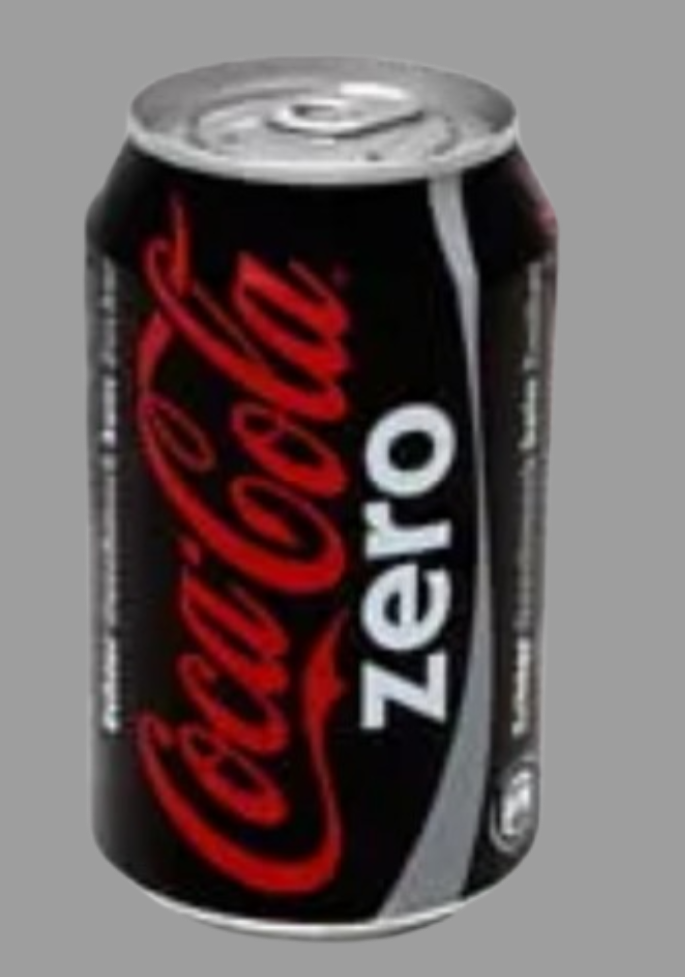
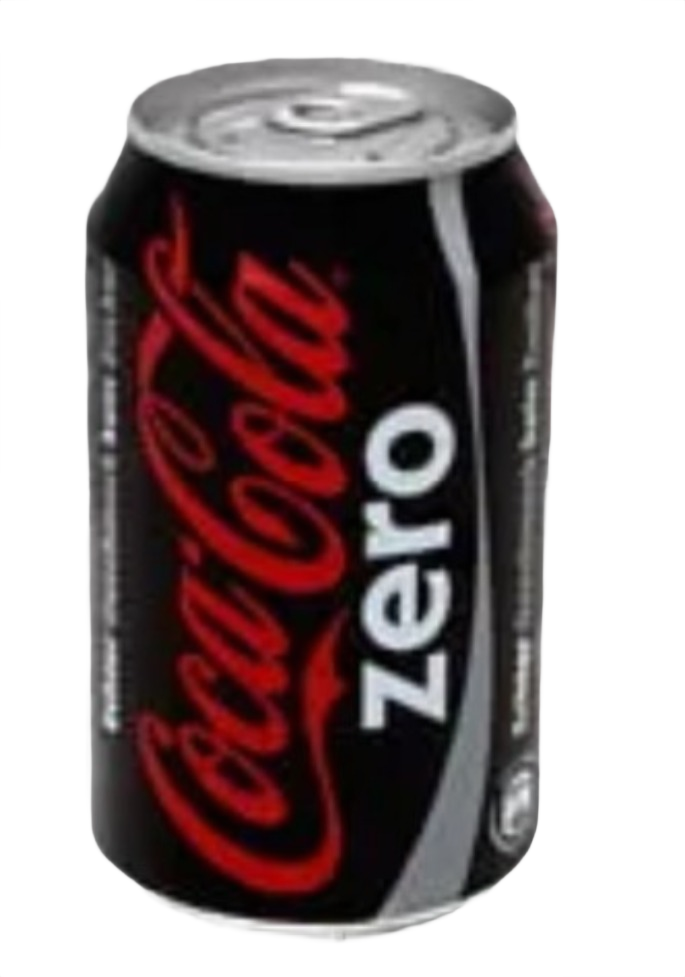
added holiday promos and removed bg

diff --git a/src/data/menuData.ts b/src/data/menuData.ts
@@ -7,7 +7,7 @@ export const menuData: MenuItem[] = [
     name: 'Tandoori Chicken Pizza',
     description: 'Marinated chicken, red onions, Bell peppers, tomatoes, Jalapeños, Fresh green onions, and Cilantro on Homemade sauce',
     category: "Manager's Picks",
-    image: '/ManagersPizza_TandooriChicken.jpg',
+    image: '/ManagersPizza_TandooriChicken.png',
     price: 18.99,
     sizes: [
       { name: 'Small (10")', price: 18.99 },
@@ -22,7 +22,7 @@ export const menuData: MenuItem[] = [
     name: 'Tandoori Paneer Pizza',
     description: 'Marinated paneer, red onions, tomatoes, Bell peppers, jalapeños, fresh green onions, and cilantro on homemade sauce.',
     category: "Manager's Picks",
-    image: '/ManagersPizza_TandooriPaneer.jpg',
+    image: '/ManagersPizza_TandooriPaneer.png',
     price: 18.99,
     sizes: [
       { name: 'Small (10")', price: 18.99 },
@@ -38,7 +38,7 @@ export const menuData: MenuItem[] = [
     name: 'Butter Chicken Pizza',
     description: 'Marinated chicken, Mushrooms, red onions, diced tomatoes, fresh green onions, and cilantro with homemade sauce.',
     category: "Manager's Picks",
-    image: '/ButterChickenPizza.jpg',
+    image: '/ButterChickenPizza.png',
     price: 18.99,
     sizes: [
       { name: 'Small (10")', price: 18.99 },
@@ -53,7 +53,7 @@ export const menuData: MenuItem[] = [
     name: 'Chicken Tikka Masala Pizza',
     description: 'Marinated chicken, red onions, bell peppers, Ginger, Garlic, tomatoes, fresh green onions, and Cilantro on homemade sauce.',
     category: "Manager's Picks",
-    image: '/Manager_sPizza_ChickenTikkaMasalaPizza.jpg',
+    image: '/Manager_sPizza_ChickenTikkaMasalaPizza.png',
     price: 18.99,
     sizes: [
       { name: 'Small (10")', price: 18.99 },
@@ -130,7 +130,7 @@ export const menuData: MenuItem[] = [
     name: 'Curry Veggie Pizza',
     description: 'Mushrooms, bell peppers, red onions, Olives, tomatoes, fresh green onions, and Cilantro on homemade sauce. ',
     category: "Manager's Picks",
-    image: '/ManagersPizza_CurryVeggie.jpg',
+    image: '/ManagersPizza_CurryVeggie.png',
     price: 18.99,
     sizes: [
       { name: 'Small (10")', price: 18.99 },
@@ -146,7 +146,7 @@ export const menuData: MenuItem[] = [
     name: 'Chili Paneer Pizza',
     description: 'Marinated paneer, red onions, bell pepper, tomatoes, green chili, jalapeños, fresh green onions, and cilantro on homemade sauce. ',
     category: "Manager's Picks",
-    image: '/ManagersPizza_ChilliPaneer.jpg',
+    image: '/ManagersPizza_ChilliPaneer.png',
     price: 18.99,
     sizes: [
       { name: 'Small (10")', price: 18.99 },
@@ -162,7 +162,7 @@ export const menuData: MenuItem[] = [
     name: 'Masala Supreme Feast',
     description: 'Tandoori Chicken, Chicken Tikka, Butter Chicken, BBQ Chicken, Onions, and Bell Peppers on Red Sauce. ',
     category: "Manager's Picks",
-    image: '/Manager_sPizza_MasalaSupremeFeastPizza.jpg',
+    image: '/Manager_sPizza_MasalaSupremeFeastPizza.png',
     price: 18.99,
     sizes: [
       { name: 'Small (10")', price: 18.99 },
@@ -174,15 +174,15 @@ export const menuData: MenuItem[] = [
   },
 
   // 🍕 Signature Pizzas
-  { id: 'veggie-supreme', name: 'Veggie Supreme', description: 'Mushrooms, black olives, bell peppers, red onions, and fresh sliced tomatoes on red sauce. ', category: 'Signature Pizzas', price: 18.99, image: '/Manager_sPizza_VeggieSupremePizza.jpg' },
+  { id: 'veggie-supreme', name: 'Veggie Supreme', description: 'Mushrooms, black olives, bell peppers, red onions, and fresh sliced tomatoes on red sauce. ', category: 'Signature Pizzas', price: 18.99, image: '/Manager_sPizza_VeggieSupremePizza.png' },
   { id: 'supreme-feast', name: 'Supreme Feast', description: 'Salami, pepperoni, sausage, ground beef, mushrooms, black olives, bell pepper, and red onions on red sauce. ', category: 'Signature Pizzas', price: 18.99, image: 'https://images.pexels.com/photos/315755/pexels-photo-315755.jpeg?auto=compress&cs=tinysrgb&w=800' },
-  { id: 'white-delight', name: 'White Delight', description: 'Spinach, Mushrooms, Tomatoes , red onions, Artichoke hearts and fresh green onions on creamy garlic sauce. ', category: 'Signature Pizzas', price: 18.99, image: '/Manager_sPizza_WhiteDelightPizza.jpg' },
-  { id: 'garlic-ranch-feast', name: 'Garlic Ranch Feast', description: 'Pepperoni, sausage, mushrooms, tomatoes, black olives, and fresh green onions on creamy garlic sauce. ', category: 'Signature Pizzas', price: 18.99, image: '/Manager_sPizza_GarlicRanchFeastPizza.jpg' },
+  { id: 'white-delight', name: 'White Delight', description: 'Spinach, Mushrooms, Tomatoes , red onions, Artichoke hearts and fresh green onions on creamy garlic sauce. ', category: 'Signature Pizzas', price: 18.99, image: '/Manager_sPizza_WhiteDelightPizza.png' },
+  { id: 'garlic-ranch-feast', name: 'Garlic Ranch Feast', description: 'Pepperoni, sausage, mushrooms, tomatoes, black olives, and fresh green onions on creamy garlic sauce. ', category: 'Signature Pizzas', price: 18.99, image: '/Manager_sPizza_GarlicRanchFeastPizza.png' },
   {
     id: 'custom-pizza',
     name: 'Build Your Own Pizza',
     description: 'Choose your sauce, crust, toppings, and cheese to create your perfect pizza!',
-    image: '/MP-redlogo.jpg',
+    image: '/mpbgimg.jpeg',
     category: 'Build Your Own Pizza',
     sizes: [
       { name: 'Small (10")', price: 18.99 },
@@ -199,17 +199,17 @@ export const menuData: MenuItem[] = [
     price: 18.99,
     dietary: [],
   },
-  { id: 'the-hamazon', name: 'The Hamazon', description: 'Ham, pineapple, tomatoes, red onions, bacon, and fresh green onions on our sweet & Spicy Sauce .', category: 'Signature Pizzas', price: 18.99, image: '/Manager_sPizza_TheHamazonPizza.jpg' },
-  { id: 'ham-it-up', name: 'Ham It Up', description: 'Ham and Pineapple on Red Sauce.', category: 'Signature Pizzas', price: 18.99, image: '/Manager_sPizza_HamItUpPizza.jpg' },
-  { id: 'meaty-union', name: 'Meaty Union', description: 'Ham, Salami, Pepperoni, sausage, and ground beef on Red Sauce. ', category: 'Signature Pizzas', price: 18.99, image: '/Manager_sPizza_MeatyUnionPizza.jpg' },
-  { id: 'pizza-margherita', name: 'Pizza Margherita', description: 'Baby tomatoes and fresh basil leaves on Red Sauce. ', category: 'Signature Pizzas', dietary: ['V'], price: 18.99, image: '/Manager_sPizza_MargheritaPizza.jpg' },
-  { id: 'garlic-rooster', name: 'Garlic Rooster', description: 'Grilled Chicken, Mushrooms, Tomatoes, Red onions and fresh green onions on creamy garlic sauce.', category: 'Signature Pizzas', price: 18.99, image: '/Manager_sPizza_GarlicRoosterPizza.jpg' },
-  { id: 'tangy-bbq', name: 'Tangy BBQ', description: 'BBQ chicken, bacon, and pineapple on tangy BBQ sauce.', category: 'Signature Pizzas', price: 18.99, image: '/Manager_sPizza_TangyBBQPizza.jpg' },
-  { id: 'mediterranean', name: 'Mediterranean', description: 'Chicken, artichoke hearts, olives, and sundried tomatoes, and feta cheese on pesto sauce. ', category: 'Signature Pizzas', dietary: ['V'], price: 18.99, image: '/Manager_sPizza_MediterraneanPizza.jpg' },
+  { id: 'the-hamazon', name: 'The Hamazon', description: 'Ham, pineapple, tomatoes, red onions, bacon, and fresh green onions on our sweet & Spicy Sauce .', category: 'Signature Pizzas', price: 18.99, image: '/Manager_sPizza_TheHamazonPizza.png' },
+  { id: 'ham-it-up', name: 'Ham It Up', description: 'Ham and Pineapple on Red Sauce.', category: 'Signature Pizzas', price: 18.99, image: '/Manager_sPizza_HamItUpPizza.png' },
+  { id: 'meaty-union', name: 'Meaty Union', description: 'Ham, Salami, Pepperoni, sausage, and ground beef on Red Sauce. ', category: 'Signature Pizzas', price: 18.99, image: '/Manager_sPizza_MeatyUnionPizza.png' },
+  { id: 'pizza-margherita', name: 'Pizza Margherita', description: 'Baby tomatoes and fresh basil leaves on Red Sauce. ', category: 'Signature Pizzas', dietary: ['V'], price: 18.99, image: '/Manager_sPizza_MargheritaPizza.png' },
+  { id: 'garlic-rooster', name: 'Garlic Rooster', description: 'Grilled Chicken, Mushrooms, Tomatoes, Red onions and fresh green onions on creamy garlic sauce.', category: 'Signature Pizzas', price: 18.99, image: '/Manager_sPizza_GarlicRoosterPizza.png' },
+  { id: 'tangy-bbq', name: 'Tangy BBQ', description: 'BBQ chicken, bacon, and pineapple on tangy BBQ sauce.', category: 'Signature Pizzas', price: 18.99, image: '/Manager_sPizza_TangyBBQPizza.png' },
+  { id: 'mediterranean', name: 'Mediterranean', description: 'Chicken, artichoke hearts, olives, and sundried tomatoes, and feta cheese on pesto sauce. ', category: 'Signature Pizzas', dietary: ['V'], price: 18.99, image: '/Manager_sPizza_MediterraneanPizza.png' },
 
   // 🍕 Classic Pizzas
-  { id: 'classic-pepperoni', name: 'Classic Pepperoni', description: 'Our hand-tossed crust topped with rich tomato sauce, whole milk-mozzarella and crispy pepperoni. ', category: 'Classic Pizzas', price: 15.99, image: '/Manager_sPizza_PepperoniPizza.jpg' },
-  { id: 'classic-cheese', name: 'Classic Cheese', description: 'Our hand-tossed crust topped with rich tomato sauce and whole milk-mozzarella.', category: 'Classic Pizzas', dietary: ['V'], price: 13.99, image: '/Manager_sPizza_CheesePizza.jpg' },
+  { id: 'classic-pepperoni', name: 'Classic Pepperoni', description: 'Our hand-tossed crust topped with rich tomato sauce, whole milk-mozzarella and crispy pepperoni. ', category: 'Classic Pizzas', price: 15.99, image: '/Manager_sPizza_PepperoniPizza.png' },
+  { id: 'classic-cheese', name: 'Classic Cheese', description: 'Our hand-tossed crust topped with rich tomato sauce and whole milk-mozzarella.', category: 'Classic Pizzas', dietary: ['V'], price: 13.99, image: '/Manager_sPizza_CheesePizza.png' },
 
   // Build Your Own Pizza (removed duplicate)
 
@@ -221,24 +221,24 @@ export const menuData: MenuItem[] = [
 
   // 🍟 Starters & Sides
   { id: 'garlic-bread-cheese', name: 'Garlic Bread with Cheese', description: 'Toasted bread topped with garlic butter and melted mozzarella cheese.', category: 'Starters & Sides', dietary: ['V'], price: 7.99, image: 'https://images.pexels.com/photos/4109111/pexels-photo-4109111.jpeg?auto=compress&cs=tinysrgb&w=800' },
-  { id: 'garlic-sticks', name: 'Garlic Sticks with Cheese', description: 'Soft breadsticks brushed with garlic butter and topped with mozzarella cheese.', category: 'Starters & Sides', dietary: ['V'], price: 6.99, image: '/ManagersPizza_GarlicSticksWithCheese.jpg' },
+  { id: 'garlic-sticks', name: 'Garlic Sticks with Cheese', description: 'Soft breadsticks brushed with garlic butter and topped with mozzarella cheese.', category: 'Starters & Sides', dietary: ['V'], price: 6.99, image: '/ManagersPizza_GarlicSticksWithCheese.png' },
   { id: 'pesto-sticks', name: 'Pesto Sticks', description: 'Soft breadsticks topped with aromatic pesto sauce and mozzarella cheese.', category: 'Starters & Sides', dietary: ['V'], price: 7.99, image: 'https://images.pexels.com/photos/4109111/pexels-photo-4109111.jpeg?auto=compress&cs=tinysrgb&w=800' },
-  { id: 'masala-breadsticks', name: 'Masala Breadsticks', description: 'Crispy breadsticks seasoned with a flavorful blend of Indian spices.', category: 'Starters & Sides', dietary: ['V'], price: 7.99, image: '/ManagersPizza_MasalaBreadsticks.jpg' },
-  { id: 'mozzarella-sticks', name: 'Mozzarella Sticks (8 pcs)', description: 'Crispy golden sticks filled with melted mozzarella cheese with the choice of dipping ranch or marinara.', category: 'Starters & Sides', dietary: ['V'], price: 9.99, image: '/Manager_sPizza_MozzerallaSticks.jpg' },
-  { id: 'jalapeno-poppers', name: 'Jalapeño Poppers (8 pcs)', description: 'Crispy fried jalapeños stuffed with creamy cheese with the choice of dipping ranch or blue cheese.', category: 'Starters & Sides', dietary: ['V'], price: 8.99, image: '/ManagersPizza_JalapenoPoppers.jpg' },
-  { id: 'cauliflower-crisps', name: 'Cauliflower Crisps', description: 'Light and crunchy bites made from seasoned cauliflower.A tasty wholesome snack.', category: 'Starters & Sides', dietary: ['V'], price: 8.99, image: '/ManagersPizza_CauliflowerBites.jpg' },
-  { id: 'vegan-nuggets', name: 'Vegan Nuggets', description: 'Crispy,golden nuggets made from plant-based ingredients. Totally meat free.', category: 'Starters & Sides', dietary: ['VE'], price: 8.99, image: '/ManagersPizza_VeganNuggets.jpg' },
+  { id: 'masala-breadsticks', name: 'Masala Breadsticks', description: 'Crispy breadsticks seasoned with a flavorful blend of Indian spices.', category: 'Starters & Sides', dietary: ['V'], price: 7.99, image: '/ManagersPizza_MasalaBreadsticks.png' },
+  { id: 'mozzarella-sticks', name: 'Mozzarella Sticks (8 pcs)', description: 'Crispy golden sticks filled with melted mozzarella cheese with the choice of dipping ranch or marinara.', category: 'Starters & Sides', dietary: ['V'], price: 9.99, image: '/Manager_sPizza_MozzerallaSticks.png' },
+  { id: 'jalapeno-poppers', name: 'Jalapeño Poppers (8 pcs)', description: 'Crispy fried jalapeños stuffed with creamy cheese with the choice of dipping ranch or blue cheese.', category: 'Starters & Sides', dietary: ['V'], price: 8.99, image: '/ManagersPizza_JalapenoPoppers.png' },
+  { id: 'cauliflower-crisps', name: 'Cauliflower Crisps', description: 'Light and crunchy bites made from seasoned cauliflower.A tasty wholesome snack.', category: 'Starters & Sides', dietary: ['V'], price: 8.99, image: '/ManagersPizza_CauliflowerBites.png' },
+  { id: 'vegan-nuggets', name: 'Vegan Nuggets', description: 'Crispy,golden nuggets made from plant-based ingredients. Totally meat free.', category: 'Starters & Sides', dietary: ['VE'], price: 8.99, image: '/ManagersPizza_VeganNuggets.png' },
   { id: 'fries-regular', name: 'Fries (Regular)', description: 'Classic golden fries, lightly salted and perfect for any meal .', category: 'Starters & Sides', dietary: ['V'], price: 5.99, image: 'https://images.pexels.com/photos/1893556/pexels-photo-1893556.jpeg?auto=compress&cs=tinysrgb&w=800' },
   { id: 'fries-garlic', name: 'Fries (Garlic)', description: 'Crispy fries tossed in garlic butter.', category: 'Starters & Sides', dietary: ['V'], price: 6.99, image: 'https://images.pexels.com/photos/1893556/pexels-photo-1893556.jpeg?auto=compress&cs=tinysrgb&w=800' },
   { id: 'fries-bacon', name: 'Fries (Bacon-Loaded)', description: 'Golden fries topped with crispy bacon bits, fresh green onions and lots of cheese on the top.', category: 'Starters & Sides', price: 8.99, image: 'https://images.pexels.com/photos/1893556/pexels-photo-1893556.jpeg?auto=compress&cs=tinysrgb&w=800' },
   { id: 'fries-truffle', name: 'Fries (Truffle Parmesan)', description: 'Crispy fries tossed in truffle oil and sprinkled with parmesan cheese.', category: 'Starters & Sides', price: 8.99, image: 'https://images.pexels.com/photos/1893556/pexels-photo-1893556.jpeg?auto=compress&cs=tinysrgb&w=800' },
-  { id: 'cheese-knots', name: 'Cheese Knots', description: 'Rich and buttery rolls made with white garlic sauce, whole milk mozzarella, and minced garlic. Served with your favorite dipping sauce.', category: 'Starters & Sides', dietary: ['V'], price: 7.99, image: '/ManagersPizza_CheeseKnots.jpg' },
-  { id: 'cheese-knots-jalapeno', name: 'Cheese Knots (Jalapeño)', description: 'Rich and buttery rolls made with white garlic sauce, whole milk mozzarella, and diced pepperoni. Served with your favorite dipping sauce.', category: 'Starters & Sides', dietary: ['V'], price: 7.99, image: '/ManagersPizza_JalapenosCheeseKnots.jpg' },
-  { id: 'cheese-knots-bacon', name: 'Cheese Knots (Bacon-Loaded)', description: 'Rich and buttery rolls made with white garlic sauce, whole milk mozzarella, and smoked bacon. Served with your favorite dipping sauce. ', category: 'Starters & Sides', price: 8.99, image: '/ManagersPizza_BaconCheeseKnots.jpg' },
+  { id: 'cheese-knots', name: 'Cheese Knots', description: 'Rich and buttery rolls made with white garlic sauce, whole milk mozzarella, and minced garlic. Served with your favorite dipping sauce.', category: 'Starters & Sides', dietary: ['V'], price: 7.99, image: '/ManagersPizza_CheeseKnots.png' },
+  { id: 'cheese-knots-jalapeno', name: 'Cheese Knots (Jalapeño)', description: 'Rich and buttery rolls made with white garlic sauce, whole milk mozzarella, and diced pepperoni. Served with your favorite dipping sauce.', category: 'Starters & Sides', dietary: ['V'], price: 7.99, image: '/ManagersPizza_JalapenosCheeseKnots.png' },
+  { id: 'cheese-knots-bacon', name: 'Cheese Knots (Bacon-Loaded)', description: 'Rich and buttery rolls made with white garlic sauce, whole milk mozzarella, and smoked bacon. Served with your favorite dipping sauce. ', category: 'Starters & Sides', price: 8.99, image: '/ManagersPizza_BaconCheeseKnots.png' },
 
   // 🧀 Mac n’ Cheese
-  { id: 'mac-classic', name: 'Mac n’ Cheese (Classic)', description: 'Creamy, cheesy, and comforting—our classic mac and cheese is made with tender elbow pasta smothered in a rich blend of melted cheeses. A timeless favorite!', price: 8.99, category: 'Mac n’ Cheese', dietary: ['V'], image: 'macncheese.jpg' },
-  { id: 'mac-buffalo-chicken', name: 'Mac n’ Cheese (Buffalo Chicken)', description: 'Our creamy mac and cheese gets a bold twist! Topped with spicy buffalo chicken, drizzled with ranch, and finished with a hint of heat. Comfort food with a kick.', price: 10.99, category: 'Mac n’ Cheese', image: '/ManagersPizza_BuffaloMacnCheese.jpg' },
+  { id: 'mac-classic', name: 'Mac n’ Cheese (Classic)', description: 'Creamy, cheesy, and comforting—our classic mac and cheese is made with tender elbow pasta smothered in a rich blend of melted cheeses. A timeless favorite!', price: 8.99, category: 'Mac n’ Cheese', dietary: ['V'], image: 'macncheese.png' },
+  { id: 'mac-buffalo-chicken', name: 'Mac n’ Cheese (Buffalo Chicken)', description: 'Our creamy mac and cheese gets a bold twist! Topped with spicy buffalo chicken, drizzled with ranch, and finished with a hint of heat. Comfort food with a kick.', price: 10.99, category: 'Mac n’ Cheese', image: '/ManagersPizza_BuffaloMacnCheese.png' },
 
   // 🥗 Salads
   { id: 'salad-garden', name: 'Garden Salad', description: 'Fresh iceberg lettuce, cucumbers, olives, cherry tomatoes, carrots, and mozzarella cheese with your choice of dressing. ', price: 8.99, category: 'Salads', dietary: ['V'], image: 'https://images.pexels.com/photos/2097090/pexels-photo-2097090.jpeg?auto=compress&cs=tinysrgb&w=800' },
@@ -250,30 +250,29 @@ export const menuData: MenuItem[] = [
 
   // 🥪 Subs & Sandwiches
   { id: 'sub-spicy-chicken', name: 'Spicy Chicken Sub', description: '- A juicy,spicy crispy chicken breast served on a fresh sandwich roll with lettuce, onions,tomato,pickles and special sauce.', category: 'Subs & Sandwiches', price: 11.99, image: 'https://images.pexels.com/photos/1633525/pexels-photo-1633525.jpeg?auto=compress&cs=tinysrgb&w=800' },
-  { id: 'sub-buffalo-chicken', name: 'Buffalo Chicken Sub', description: 'Sandwich-A juicy, crispy buffalo chicken breast served on a fresh sandwich roll with lettuce, onions, tomato,pickles and special sauce.', category: 'Subs & Sandwiches', price: 11.99, image: '/ManagersPizza_BuffaloChickenSandwich.jpg' },
+  { id: 'sub-buffalo-chicken', name: 'Buffalo Chicken Sub', description: 'Sandwich-A juicy, crispy buffalo chicken breast served on a fresh sandwich roll with lettuce, onions, tomato,pickles and special sauce.', category: 'Subs & Sandwiches', price: 11.99, image: '/ManagersPizza_BuffaloChickenSandwich.png' },
   { id: 'sub-crispy-chicken', name: 'Crispy Chicken Sub', description: 'A juicy, crispy chicken breast served on a fresh sandwich roll with lettuce, onions, tomato, pickles and special sauce.', category: 'Subs & Sandwiches', price: 11.99, image: 'https://images.pexels.com/photos/1633525/pexels-photo-1633525.jpeg?auto=compress&cs=tinysrgb&w=800' },
-  { id: 'sub-bbq-chicken', name: 'BBQ Chicken Sub', description: 'A juicy, grilled BBQ chicken served on a fresh sandwich roll with lettuce, onion, tomato, pickles and special sauce. ', category: 'Subs & Sandwiches', price: 11.99, image: '/BBQChickenSandwich.jpg' },
+  { id: 'sub-bbq-chicken', name: 'BBQ Chicken Sub', description: 'A juicy, grilled BBQ chicken served on a fresh sandwich roll with lettuce, onion, tomato, pickles and special sauce. ', category: 'Subs & Sandwiches', price: 11.99, image: '/BBQChickenSandwich.png' },
   { id: 'sub-chicken-parmesan', name: 'Chicken Parmesan Sub', description: 'A crispy fried chicken breast topped with marinara sauce and melted mozzarella served on a fresh sandwich roll.', category: 'Subs & Sandwiches', price: 12.99, image: 'https://images.pexels.com/photos/1633525/pexels-photo-1633525.jpeg?auto=compress&cs=tinysrgb&w=800' },
   { id: 'sub-teriyaki-chicken', name: 'Teriyaki Chicken Sub', description: 'A juicy grilled teriyaki chicken served on a fresh sandwich roll with lettuce, onion, tomatoes and pickles.', category: 'Subs & Sandwiches', price: 11.99, image: 'https://images.pexels.com/photos/1633525/pexels-photo-1633525.jpeg?auto=compress&cs=tinysrgb&w=800' },
-  { id: 'sub-tandoori-chicken', name: 'Tandoori Paneer/Chicken Sandwich', description: 'A flavorful tandoori-spiced based sandwich with your choice of chicken or paneer ,served on a fresh sandwich roll with lettuce, onions, tomato and pickles.', category: 'Subs & Sandwiches', price: 12.99, image: '/ManagersPizza_TandooriChickenSandwich.jpg' },
-  { id: 'sub-butter-chicken', name: 'Butter Paneer/Chicken Sandwich', description: 'A flavorful Buttery-spiced based sandwich with your choice of chicken or paneer, served on a fresh sandwich roll with lettuce, onions, tomato and pickles.', category: 'Subs & Sandwiches', price: 12.99, image: '/ManagersPizza_ButterPaneerSandwich.jpg' },
-
+  { id: 'sub-tandoori-chicken', name: 'Tandoori Paneer/Chicken Sandwich', description: 'A flavorful tandoori-spiced based sandwich with your choice of chicken or paneer ,served on a fresh sandwich roll with lettuce, onions, tomato and pickles.', category: 'Subs & Sandwiches', price: 12.99, image: '/ManagersPizza_TandooriChickenSandwich.png' },
+  { id: 'sub-butter-chicken', name: 'Butter Paneer/Chicken Sandwich', description: 'A flavorful Buttery-spiced based sandwich with your choice of chicken or paneer, served on a fresh sandwich roll with lettuce, onions, tomato and pickles.', category: 'Subs & Sandwiches', price: 12.99, image: '/ManagersPizza_ButterPaneerSandwich.png' },
   // 🍰 Desserts
-  { id: 'mini-churros', name: 'Mini Churros', description: '16 mini churros coated in Cinnamon sugar.', category: 'Desserts', dietary: ['V'], price: 6.99, image: '/ManagersPizza_Churros.jpg' },
-  { id: 'nutella-pizza', name: 'Nutella Pizza (10")', description: 'Golden-baked dough layered with warm Nutella, and topped with a sprinkle of powdered sugar.', category: 'Desserts', dietary: ['V'], price: 10.99, image: '/Manager_sPizza_NutellaPizza.jpg' },
+  { id: 'mini-churros', name: 'Mini Churros', description: '16 mini churros coated in Cinnamon sugar.', category: 'Desserts', dietary: ['V'], price: 6.99, image: '/ManagersPizza_Churros.png' },
+  { id: 'nutella-pizza', name: 'Nutella Pizza (10")', description: 'Golden-baked dough layered with warm Nutella, and topped with a sprinkle of powdered sugar.', category: 'Desserts', dietary: ['V'], price: 10.99, image: '/Manager_sPizza_NutellaPizza.png' },
   { id: 'cinnamon-dessert-pizza', name: 'Cinnamon Dessert Pizza (10")', description: 'A warm, soft pizza crust topped with buttery cinnamon sugar.', category: 'Desserts', dietary: ['V'], price: 9.99, image: 'https://images.pexels.com/photos/3026810/pexels-photo-3026810.jpeg?auto=compress&cs=tinysrgb&w=800' },
-  { id: 'tiramisu', name: 'Tiramisu', description: 'A rich creamy Italian dessert with coffee, cream and cocoa.', category: 'Desserts', dietary: ['V'], price: 7.99, image: '/ManagersPizza_Tiramisu.jpg' },
-  { id: 'cheesecake-slice', name: 'Cheesecake Slice', description: 'Rich and velvety cheesecake slice with a buttery base.', category: 'Desserts', dietary: ['V'], price: 7.99, image: '/ManagersPizza_CheeseCake.jpg' },
+  { id: 'tiramisu', name: 'Tiramisu', description: 'A rich creamy Italian dessert with coffee, cream and cocoa.', category: 'Desserts', dietary: ['V'], price: 7.99, image: '/ManagersPizza_Tiramisu.png' },
+  { id: 'cheesecake-slice', name: 'Cheesecake Slice', description: 'Rich and velvety cheesecake slice with a buttery base.', category: 'Desserts', dietary: ['V'], price: 7.99, image: '/ManagersPizza_CheeseCake.png' },
   { id: 'cookie-pizza', name: 'Cookie Pizza', description: 'A decadent 8-inch, soft and chewy chocolate chip cookie baked until golden brown. Made with semi-sweet chocolate chips', category: 'Desserts', dietary: ['V'], price: 8.99, image: 'https://images.pexels.com/photos/3026810/pexels-photo-3026810.jpeg?auto=compress&cs=tinysrgb&w=800' },
   // --- Beverages: Cans ($2.50) ---
   { id: 'can-cocacola', name: 'Coca-Cola', description: 'Classic Coca-Cola in a 12oz can', category: 'Cans', price: 2.50, image: '/coke-can.png' },
-  { id: 'can-fanta', name: 'Fanta', description: 'Orange Fanta in a 12oz can', category: 'Cans', price: 2.50, image: '/fanta-can.jpg' },
-  { id: 'can-fanta-pineapple', name: 'Fanta Pineapple', description: 'Pineapple Fanta in a 12oz can', category: 'Cans', price: 2.50, image: '/fanta-pa-can.jpg' },
-  { id: 'can-sprite', name: 'Sprite', description: 'Lemon-lime Sprite in a 12oz can', category: 'Cans', price: 2.50, image: '/sprite-can.jpg' },
+  { id: 'can-fanta', name: 'Fanta', description: 'Orange Fanta in a 12oz can', category: 'Cans', price: 2.50, image: '/fanta-can.png' },
+  { id: 'can-fanta-pineapple', name: 'Fanta Pineapple', description: 'Pineapple Fanta in a 12oz can', category: 'Cans', price: 2.50, image: '/fanta-pa-can.png' },
+  { id: 'can-sprite', name: 'Sprite', description: 'Lemon-lime Sprite in a 12oz can', category: 'Cans', price: 2.50, image: '/sprite-can.png' },
   { id: 'can-sprite-zero', name: 'Sprite Zero Sugar', description: 'Zero sugar Sprite in a 12oz can', category: 'Cans', price: 2.50, image: '/sprite-zero-sugar-can.png' },
   { id: 'can-coke-zero', name: 'Coke Zero', description: 'Zero sugar Coca-Cola in a 12oz can', category: 'Cans', price: 2.50, image: '/coke-zero-can.png' },
   { id: 'can-diet-coke', name: 'Diet Coke', description: 'Diet Coca-Cola in a 12oz can', category: 'Cans', price: 2.50, image: '/diet-coke-can.png' },
-  { id: 'can-root-beer', name: 'Root Beer', description: 'Classic root beer in a 12oz can', category: 'Cans', price: 2.50, image: '/rootbeer-can.jpg' },
+  { id: 'can-root-beer', name: 'Root Beer', description: 'Classic root beer in a 12oz can', category: 'Cans', price: 2.50, image: '/rootbeer-can.png' },
   // --- Beverages: 20oz ($4.50) ---
   { id: '20oz-cocacola', name: 'Coca-Cola', description: 'Classic Coca-Cola in a 20oz bottle', category: '20oz', price: 4.50, image: '/coke-20oz.png' },
   { id: '20oz-diet-coke', name: 'Diet Coke', description: 'Diet Coca-Cola in a 20oz bottle', category: '20oz', price: 4.50, image: '/diet-coke-20.png' },

diff --git a/src/App.tsx b/src/App.tsx
@@ -84,18 +84,33 @@ export default function App() {
     >
       <div className="min-h-screen bg-white/90 backdrop-blur-sm">
       <Header 
-        activeSection={activeSection} 
+        activeSection={activeSection}
         onSectionChange={scrollToSection} 
       />
       <section id="home">
         <HeroSection />
-        <div className="w-full max-w-2xl mx-auto my-4 px-4">
-          <img 
-            src="/mppromo.jpeg" 
-            alt="Lunch Time Meal Deal - $14.99 Small Pizza with Drink" 
-            className="w-full md:w-2/3 lg:w-1/2 mx-auto h-auto rounded-lg shadow-lg"
-            loading="lazy"
-          />
+        <div className="w-full max-w-7xl mx-auto my-8 px-4">
+          {/* All 3 Promotions - Side by side on desktop, stacked on mobile */}
+          <div className="grid grid-cols-1 md:grid-cols-3 gap-4 mb-6">
+            <img 
+              src="/Celebratechristmas2.jpg" 
+              alt="Hali Luya - Special Holiday Hours for Christmas and New Year" 
+              className="w-full h-auto rounded-lg shadow-lg"
+              loading="lazy"
+            />
+            <img 
+              src="/mppromo.jpeg" 
+              alt="Lunch Time Meal Deal - $14.99 Small Pizza with Drink" 
+              className="w-full h-auto rounded-lg shadow-lg"
+              loading="lazy"
+            />
+            <img 
+              src="/Celebratechristmastime.jpg" 
+              alt="Celebrate Christmas & New Year - 15% OFF Dec 24-25 | Dec 31-Jan 1" 
+              className="w-full h-auto rounded-lg shadow-lg"
+              loading="lazy"
+            />
+          </div>
         </div>
         <CouponSection />
       </section>

diff --git a/src/components/MenuSection.tsx b/src/components/MenuSection.tsx
@@ -157,7 +157,7 @@ const MenuSection: React.FC = () => {
                 activeCategory === 'Beverages' ? (
                   <div key={item.name} className="bg-white rounded-lg shadow-md overflow-hidden flex flex-col">
                     {item.image && (
-                      <div className="w-full h-48 flex items-center justify-center" style={{ backgroundColor: '#a0a0a0' }}>
+                      <div className="w-full h-48 flex items-center justify-center" style={{ backgroundColor: '#ffffff' }}>
                         <img
                           src={item.image}
                           alt={item.name}
